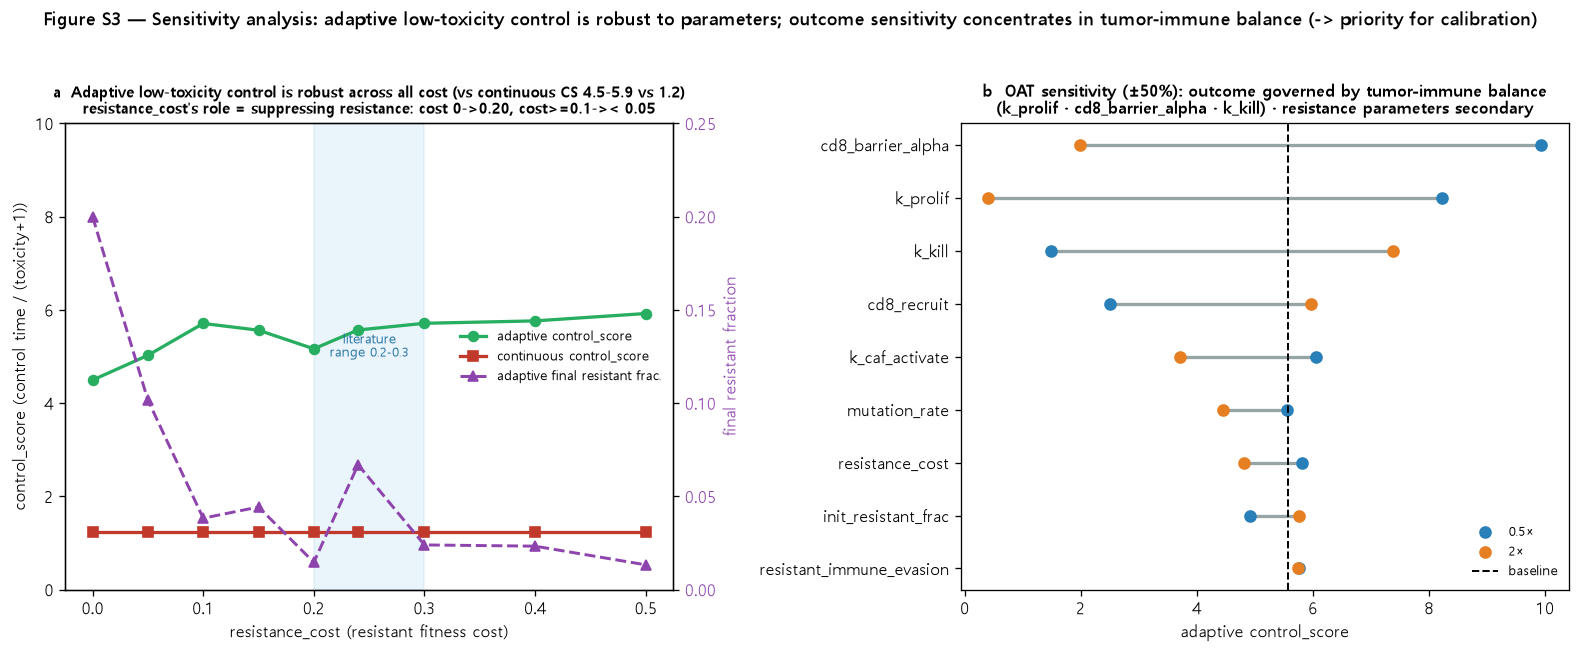
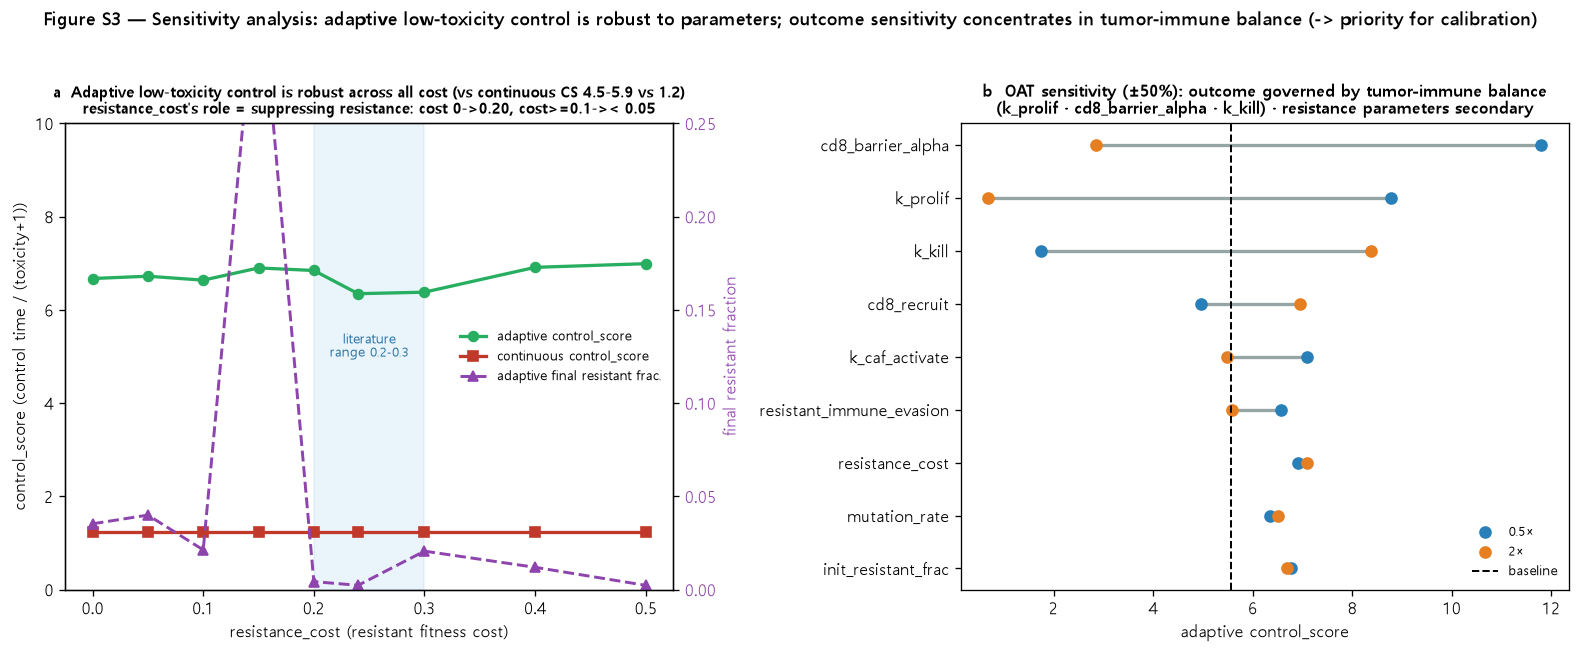
model+manuscript: add GV1001 as immune-priming agent; phase-map application case
abm.py adds GV1001 (hTERT telomerase vaccine; TeloVac negative unselected,
KG4/2015 positive in eotaxin-high). sim_gv1001.py demonstrates that in a
strongly immune-excluding regime GV1001 alone is nearly futile (barrier excludes
boosted T cells), while a barrier-opening anti-fibrotic unlocks it; sustained
co-administration beats a pulsed open-then-rest schedule. Added as a Results 3.4
application paragraph + Fig S4, refs [21] TeloVac, [22] KG4/2015.

diff --git a/pipeline/sim_gv1001.py b/pipeline/sim_gv1001.py
@@ -1,0 +1,112 @@
+"""GV1001 순차 병용 — '장벽을 연 뒤 면역 부스트' 가설 시뮬레이션.
+
+개념: 조밀 myCAF는 CD8를 배제하므로 면역 프라이밍(GV1001) 단독은 무력하다. 항섬유화로
+장벽을 연 창(window)에서 GV1001을 투여하면 T세포가 종양에 도달해 효과를 낸다.
+→ 5개 팔 비교로 '무의미가 아니라 타이밍의 문제'임을 보인다.
+
+  1 무처치
+  2 GV1001 단독(연속)       — 장벽 배제로 약할 것으로 예상
+  3 항섬유화 단독(연속)      — 장벽은 열되 면역 부스트 없음
+  4 동시병용(항섬유+GV1001)  — 장벽 열림 + 면역 부스트
+  5 순차(개방→열린창 GV1001→리셋 사이클)
+
+면역배제가 유효한 체제(cd8_barrier_alpha 높음)에서, containment 기본 ON.
+"""
+import sys, os, warnings
+sys.path.insert(0, os.path.dirname(os.path.abspath(__file__)))
+try:
+    sys.stdout.reconfigure(encoding="utf-8")
+except Exception:
+    pass
+warnings.filterwarnings("ignore")
+import numpy as np
+import matplotlib
+matplotlib.use("Agg")
+import fonts  # noqa
+import matplotlib.pyplot as plt
+matplotlib.rcParams["axes.unicode_minus"] = False
+from matplotlib.lines import Line2D
+from synthetic import make_tissue
+from abm import simulate, control_metrics
+
+ROOT = os.path.dirname(os.path.dirname(os.path.abspath(__file__)))
+# 강한 면역배제 체제 — GV1001 단독은 장벽에 막혀 실패, 개방(항섬유화) 필요
+PARAMS = dict(k_prolif=0.15, cd8_recruit=8, k_kill=0.6, cd8_barrier_alpha=3.0)
+DAYS = 120
+SEEDS = [1, 2, 3]
+ANTIFIB = [("danshen", 1.0), ("astragaloside", 1.0)]      # 순수 항섬유화(장벽 개방)
+GV = [("gv1001", 1.0)]
+# 순차 스케줄: 개방 → 열린 창에서 GV1001 → 휴지(장벽 재형성) 반복
+SEQ = [
+    dict(label="open barrier", days=6, substances=ANTIFIB),
+    dict(label="immune strike (open window)", days=6, substances=ANTIFIB + GV),
+    dict(label="rest (barrier re-forms)", days=6, substances=[]),
+]
+ARMS = [
+    ("Untreated", "none", dict(), "#7F8C8D"),
+    ("GV1001 alone", "subs", dict(regimen_subs=GV), "#2980B9"),
+    ("Anti-fibrotic alone", "subs", dict(regimen_subs=ANTIFIB), "#E67E22"),
+    ("Concurrent (anti-fib + GV1001)", "subs", dict(regimen_subs=ANTIFIB + GV), "#8E44AD"),
+    ("Sequential (open → GV1001 → reset)", "sched", dict(schedule=SEQ), "#27AE60"),
+]
+
+
+def run(kind, kw, seed):
+    p = dict(PARAMS); p["seed"] = seed
+    h, _ = simulate(c, l, days=DAYS, params=p, snapshots=(0.0, 1.0), **kw)
+    return h, control_metrics(h, n0=n0)
+
+
+c, l, _ = make_tissue("contained", seed=42)
+n0 = (l == "Tumor").sum()
+
+
+def main():
+    print(f"{'arm':<36}{'final':>7}{'resist':>8}{'toxic':>7}{'ctrl':>7}")
+    results = {}
+    for name, kind, kw, col in ARMS:
+        hs, ms = [], []
+        for s in SEEDS:
+            h, m = run(kind, kw, s)
+            hs.append(h); ms.append(m)
+        # seed 평균 궤적(공통 시점 가정) + 지표 평균
+        agg = {k: float(np.mean([m[k] for m in ms]))
+               for k in ("final_frac", "final_resistant_frac", "cum_toxicity",
+                         "control_score")}
+        results[name] = (hs[0], agg, col)
+        print(f"{name:<36}{agg['final_frac']:>6.2f}x{agg['final_resistant_frac']:>8.2f}"
+              f"{agg['cum_toxicity']:>7.0f}{agg['control_score']:>7.1f}")
+
+    # 그림: 궤적 + 요약 막대
+    fig, (axA, axB) = plt.subplots(1, 2, figsize=(14, 5.4))
+    for name, (h, agg, col) in results.items():
+        t = [x["t"] for x in h]; y = [x["n_tumor"] / n0 for x in h]
+        axA.plot(t, y, lw=2, color=col, label=name)
+    axA.axhline(1.5, color="#E74C3C", ls=":", lw=1)
+    axA.text(2, 1.53, "progression threshold 1.5x", fontsize=8, color="#E74C3C")
+    axA.set_xlabel("Time (days)"); axA.set_ylabel("Tumor / initial")
+    axA.set_title("a  Tumor trajectory — GV1001 needs an open barrier to act",
+                  fontsize=10.5, fontweight="bold")
+    axA.legend(frameon=False, fontsize=7.6)
+
+    names = list(results)
+    finals = [results[n][1]["final_frac"] for n in names]
+    cols = [results[n][2] for n in names]
+    y = np.arange(len(names))
+    axB.barh(y, finals, color=cols, edgecolor="black", linewidth=0.7)
+    for i, f in enumerate(finals):
+        axB.text(f + 0.02, i, f"{f:.2f}x", va="center", fontsize=8.5)
+    axB.set_yticks(y); axB.set_yticklabels(names, fontsize=8.5); axB.invert_yaxis()
+    axB.set_xlabel("Final tumor burden (fold vs initial)  →  lower is better")
+    axB.set_title("b  GV1001 alone ≈ futile (barrier excludes T cells);\n"
+                  "opening the barrier first unlocks it", fontsize=10.5, fontweight="bold")
+    fig.suptitle("GV1001 (telomerase vaccine) sequential combination — timing, not futility "
+                 "(in-silico)", fontsize=12)
+    fig.tight_layout(rect=[0, 0, 1, 0.95])
+    out = os.path.join(ROOT, "assets", "gv1001_sequential.png")
+    fig.savefig(out, dpi=118, bbox_inches="tight")
+    print("wrote", out)
+
+
+if __name__ == "__main__":
+    main()

diff --git a/pipeline/abm.py b/pipeline/abm.py
@@ -173,6 +173,15 @@ SUBSTANCES = {
                   "인한 간접효과**(원인 제거)이며 myCAF 직접작용 아님. 항암은 KDM5B 억제 "
                   "in silico 가설(Pharmaceuticals 2023). **췌장암 적용은 미검증 가설**",
     ),
+    "gv1001": dict(
+        label="GV1001 (텔로머라제 hTERT 펩타이드 백신)", evidence="moderate",
+        effects={"cd8_recruit": 1.6, "k_kill": 1.3},
+        rationale="hTERT 유래 16-mer 펩타이드 백신 → 텔로머라제⁺ 종양 대상 CD4/CD8 T세포 "
+                  "프라이밍(면역 부스트). 비선택 진행성 PDAC은 음성(TeloVac 3상, Lancet "
+                  "Oncol 2014)이나 **eotaxin-high 하위군에서 생존 개선**(KG4/2015 3상, BJC "
+                  "2023; OS 11.3 vs 7.5m). 면역 프라이밍 제제 — 효과는 T세포가 종양에 "
+                  "도달할 수 있어야 발현(장벽 열림 필요)",
+    ),
     # ---- 전통 약재 (문헌 기반, 근거 수준 상이 — 반드시 evidence 확인) ----
     "garlic": dict(
         label="마늘 (Allicin/DATS)", evidence="strong",
@@ -262,7 +271,7 @@ EVIDENCE_BADGE = {
 # 비교하기 위한 상대적 지표. 종양 억제만 보던 모델의 맹점(고통·독성)을 보완한다.
 # ==========================================================================
 TOXICITY = {
-    "gemcitabine": 0.85, "erlotinib": 0.60, "entecavir": 0.25,
+    "gemcitabine": 0.85, "erlotinib": 0.60, "entecavir": 0.25, "gv1001": 0.20,
     "generic_cytotoxic": 0.80, "generic_immunostim": 0.30,
     "generic_antifibrotic": 0.20,
     "curcumin": 0.10, "ginsenoside_rg3": 0.15, "garlic": 0.10, "mugwort": 0.20,

diff --git a/docs/manuscript/manuscript.md b/docs/manuscript/manuscript.md
@@ -403,6 +403,23 @@ phase boundary depends on parameters that are mechanistically motivated but not
 data-fitted; where real PDAC lies on it is an empirical question this framework poses
 rather than answers (Discussion §4.5).
 
+**Application—a clinical immunotherapy is gated by the stromal barrier.** The phase map
+predicts that immune-directed agents should help only where the stroma does not exclude
+T cells. We tested this with GV1001, a telomerase (hTERT) peptide vaccine that primes
+tumor-directed T cells; it failed to improve survival in unselected advanced PDAC
+(TeloVac [21]) but did so in an eotaxin-high subgroup (KG4/2015 [22]). Encoded as an
+immune-priming perturbation in a strongly immune-excluding regime, GV1001 alone barely
+reduced tumor burden (1.89× vs 2.28× untreated)—the dense barrier excluded even the
+boosted T cells—whereas co-administration with a barrier-opening anti-fibrotic agent
+controlled the tumor (0.76×); the anti-fibrotic alone was insufficient (1.66×)
+(Fig. S4). Notably, sustained co-administration outperformed a pulsed
+"open-then-rest" schedule (1.49×), because letting the barrier re-form between pulses
+re-excluded the T cells—so, unlike drug holidays that exploit competition among resistant
+clones, immune access must be held open. This is a concrete instance of the framework's
+message: an immunotherapy's value is contingent on the stromal state, and pairing it with
+barrier-opening is predicted to be necessary specifically in the immune-exclusion-dominant
+regime.
+
 ### 3.5 Adaptive scheduling achieves tumor coexistence at a fraction of the toxicity of continuous dosing
 On a controllable-but-not-eradicable tumor, we compared no treatment, continuous
 maximum-dose therapy, and adaptive on/off dosing (Fig. 5). Continuous dosing drove the
@@ -637,6 +654,14 @@ advantage is robust across the range; resistance_cost governs resistant-clone
 suppression. (b) One-at-a-time ±50% tornado—outcome sensitivity concentrates in
 tumor-immune balance parameters. *(assets/sensitivity.png)*
 
+**Figure S4. A clinical immunotherapy is gated by the stromal barrier.** In a strongly
+immune-excluding regime, the telomerase vaccine GV1001 (encoded as immune priming) was
+tested alone and combined with a barrier-opening anti-fibrotic agent. (a) Tumor
+trajectories; (b) final tumor burden per arm. GV1001 alone is nearly futile (dense
+stroma excludes the boosted T cells); opening the barrier first unlocks it, and sustained
+co-administration outperforms a pulsed open-then-rest schedule.
+*(assets/gv1001_sequential.png)*
+
 ---
 
 ## Declarations
@@ -683,6 +708,8 @@ writing – original draft, writing – review & editing.
 18. Hu X, Peng X, et al. Shikonin reverses cancer-associated fibroblast-induced gemcitabine resistance in pancreatic cancer cells by suppressing MCT4-mediated reverse Warburg effect. *Phytomedicine* 2024;123:155214. PMID: 38134861. doi:10.1016/j.phymed.2023.155214
 19. Norton KA, Gong C, et al. Multiscale agent-based and hybrid modeling of the tumor immune microenvironment. *Processes (Basel)* 2019;7(1):37. PMID: 30701168. doi:10.3390/pr7010037
 20. Shiau C, Cao J, et al. Spatially resolved analysis of pancreatic cancer identifies therapy-associated remodeling of the tumor microenvironment. *Nat Genet* 2024;56(11):2466-2478. PMID: 39227743. doi:10.1038/s41588-024-01890-9
+21. Middleton G, Silcocks P, et al. Gemcitabine and capecitabine with or without telomerase peptide vaccine GV1001 in patients with locally advanced or metastatic pancreatic cancer (TeloVac): an open-label, randomised, phase 3 trial. *Lancet Oncol* 2014;15(8):829-840. PMID: 24954781. doi:10.1016/S1470-2045(14)70236-0
+22. Jo JH, Kim YT, et al. Efficacy of GV1001 with gemcitabine/capecitabine in previously untreated patients with advanced pancreatic ductal adenocarcinoma having high serum eotaxin levels (KG4/2015): an open-label, randomised, phase 3 trial. *Br J Cancer* 2024;130(1):43-52. PMID: 37903909. doi:10.1038/s41416-023-02474-w
 
 ---
 